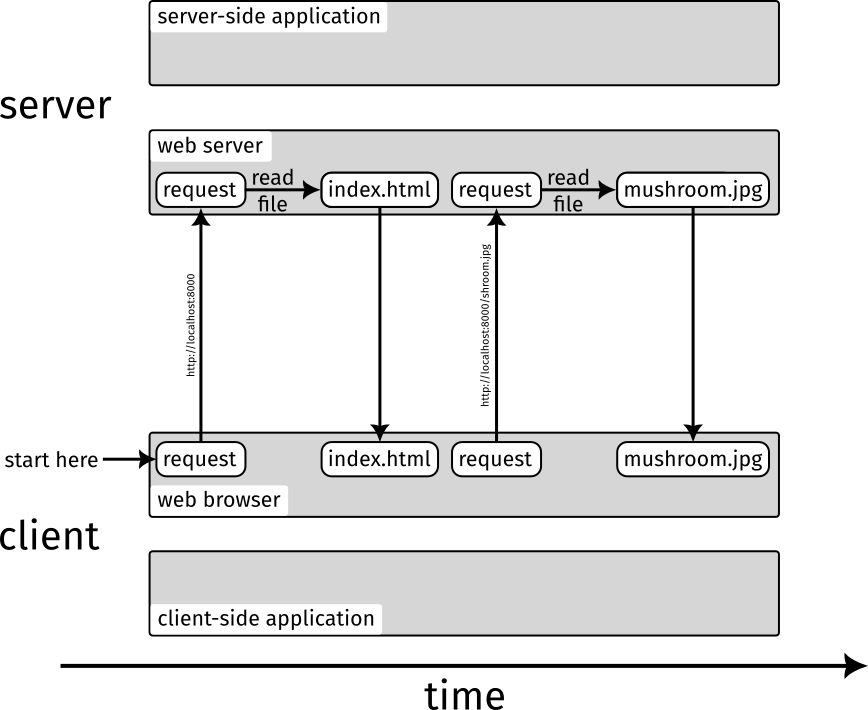
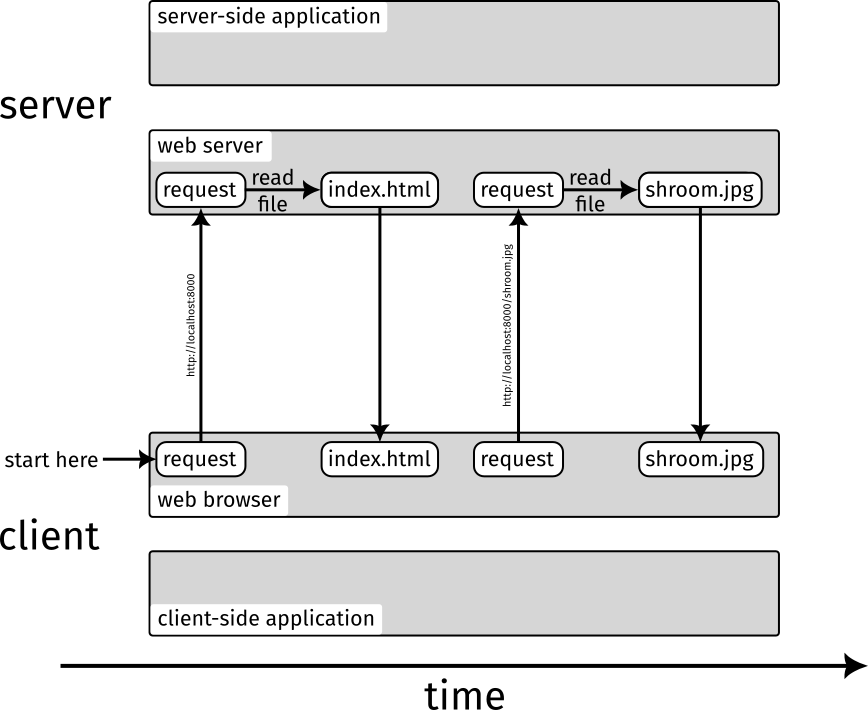
FInish lesson 1

Changed region(s): [[0.4977, 0.2169, 0.9021, 0.6817]]

diff --git a/lesson-1/README.md b/lesson-1/README.md
@@ -1,15 +1,15 @@
 # Lesson 1: Static Files
 
-The most basic "web application" is one that serves static files through a web server. This is how many websites work, as they do not need any dynamic components. The most popular web servers are [Nginx](https://www.nginx.com) and [Apache](https://httpd.apache.org). These are quie complex to set up, however, and we do not want to clutter your system with software that continuously runs in the background. Fortunately, PHP includes its own little web server which works just fine for local development. In this lesson, you will use the PHP web server to serve some static files and display them in your web browser.
+The most basic "web application" is one that serves static files through a web server. This is how many websites work, as they do not need any dynamic components. The most popular web servers are [Nginx](https://www.nginx.com) and [Apache](https://httpd.apache.org). These are quite complex to set up, however, and we do not want to clutter your system with software that continuously runs in the background. Fortunately, PHP includes its own little web server which works just fine for local development. In this lesson, you will use the PHP web server to serve some static files and display them in your web browser.
 
-First, create an empty directory. This is the place where all the work will happen throughout the following lessons:
+First, create an empty directory. This will be our working directory throughout the following lessons:
 
 ```bash
 mkdir webdev
 cd webdev
 ```
 
-Next, copy a nice image into this directory. If you do not have one yourself, take [this one](shroom.jpg).
+Next, copy a nice image into this directory. If you do not have one yourself, take [a shroom](shroom.jpg).
 
 Now we can start the web server:
 
@@ -17,7 +17,7 @@ Now we can start the web server:
 php -S localhost:8000
 ```
 
-The web server helpfully tells you that it now listens to `http://localhost:8000` which looks quite like an URL that can be opened in a browser. Instead of a domain such as `github.com`, the URL contains `localhost` which points to your own machine. Also, the URL contains `:8000` which specifies the port at which the web server is listening to incoming requests. By default, web servers listen at port 80 (for `http` URLs) and port 443 (for `https` URLs), so the port specification can be omitted and the web browser knows what to do. But it is not so easy to make a development web server listen to these ports (you can try), hence we use the non-default port 8000.
+The web server helpfully tells you that it now listens to `http://localhost:8000` which looks quite like an URL that can be opened in a web browser. Instead of a domain such as `github.com`, the URL contains `localhost` which points to your own machine. Also, the URL contains `:8000` which specifies the port at which the web server is listening to incoming requests. By default, web servers listen at port 80 (for `http` URLs) and port 443 (for `https` URLs), so the port specification can be omitted and the web browser knows what to do. But it is not so easy to make a development web server listen to these ports (you can try), hence we use the non-default port 8000.
 
 To make the web server respond with the image we put into our working directory, open <http://localhost:8000/shroom.jpg> (change the file name in the URL if you have used a different image). Your web browser will send an HTTP request for the image to the web server, which in turn will respond with the file that is finally displayed by the browser. The web server will also tell you what is is doing by printing log messages to the console:
 
@@ -29,7 +29,7 @@ To make the web server respond with the image we put into our working directory,
 
 Here the web server received an HTTP request, returned the image file and closed the HTTP connection again.
 
-To finish this lesson, we also want to display some text in the web browser, just like a real website. For this purpose, web browsers understand the Hypertext Markup Language (HTML). HTML structures and enriches information such as text and images in a machine-readable way.
+To finish this lesson, we also want to display some text in the web browser, just like a real website. For this purpose, web browsers understand the [Hypertext Markup Language (HTML)](https://developer.mozilla.org/en-US/docs/Learn/HTML/Introduction_to_HTML). HTML structures and enriches information such as text and images in a machine-readable way.
 
 Create a new HTML file called `index.html` with the following content:
 
@@ -37,7 +37,7 @@ Create a new HTML file called `index.html` with the following content:
 <h1>Hello there!</h1>
 ```
 
-Now open <http://localhost:8000>. Note that we didn't have to specify the file name in the URL this time. The web server automatically looks for an `index.html` file if no other file name is given.
+Now open <http://localhost:8000>. Note that we do not have to specify the file name in the URL this time. The web server automatically looks for an `index.html` file if no other file name is given.
 
 We can even include our image in the HTML document:
 
@@ -46,9 +46,10 @@ We can even include our image in the HTML document:
 <img src="shroom.jpg">
 ```
 
-This time the web browser will automatically send a second HTTP request to fetch the image and display it in the HTML document. The client-server communication now looks like this:
+This time, the web browser will automatically send a second HTTP request to fetch the image and display it in the HTML document. The client-server communication now looks like this:
 
 ![client server interaction](l1-client-server.png)
 
+Now we have the communication between web server and web browser figured out, we can start to implement an actual web application that can produce dynamic responses.
 
-**Next lesson:** [Lesson 2: Server-Side Application with PHP](/lesson-2)
+**Next lesson:** [Server-Side Application with PHP](/lesson-2)

diff --git a/lesson-0/README.md b/lesson-0/README.md
@@ -10,4 +10,4 @@ This typical interaction between client and server is illustrated below:
 
 Over the next three lessons you will learn to set up a web server to respond with static files, then implement a simple server-side application in PHP and finally take a look at client-side applications with JavaScript.
 
-**Next lesson:** [Lesson 1: Static Files](/lesson-1)
+**Next lesson:** [Static Files](/lesson-1)
